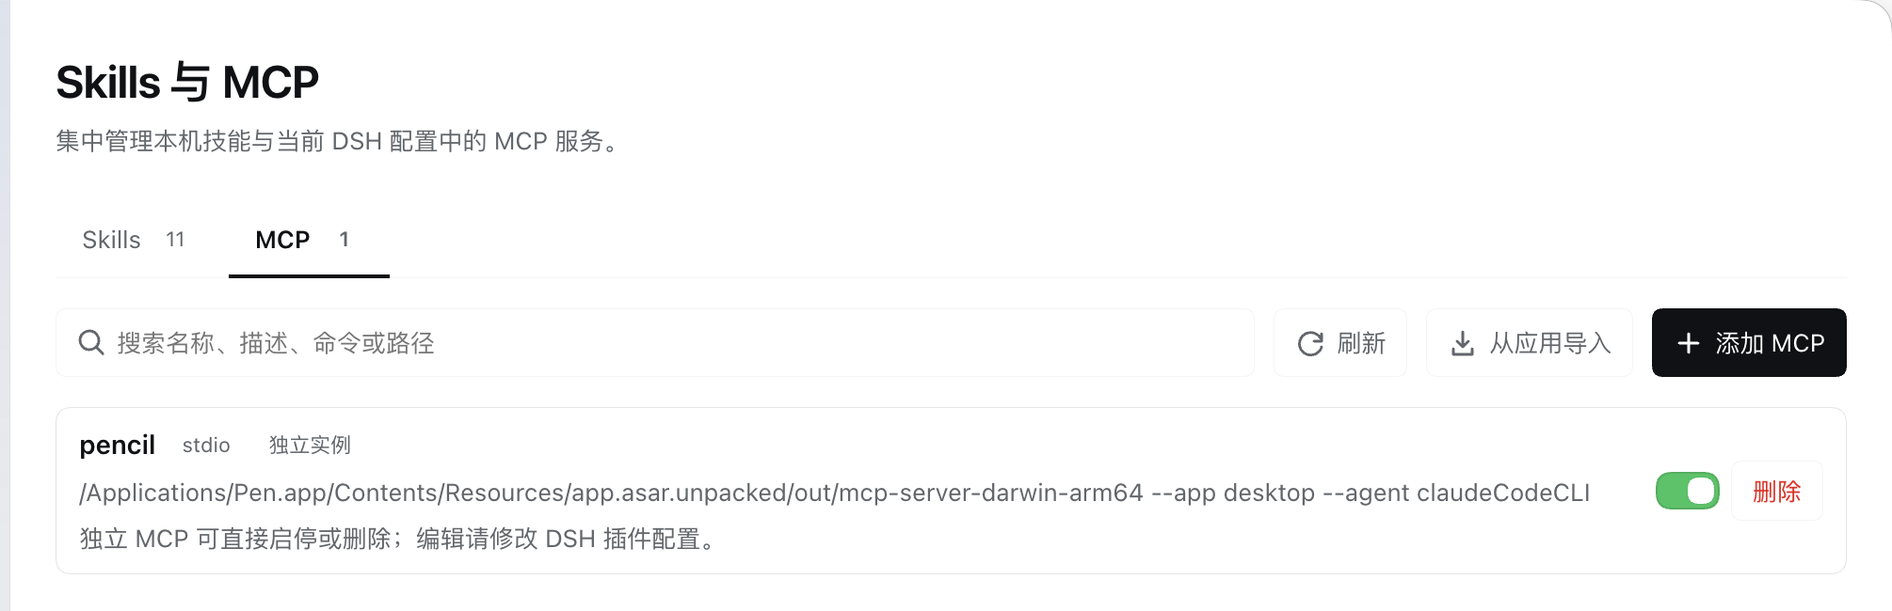
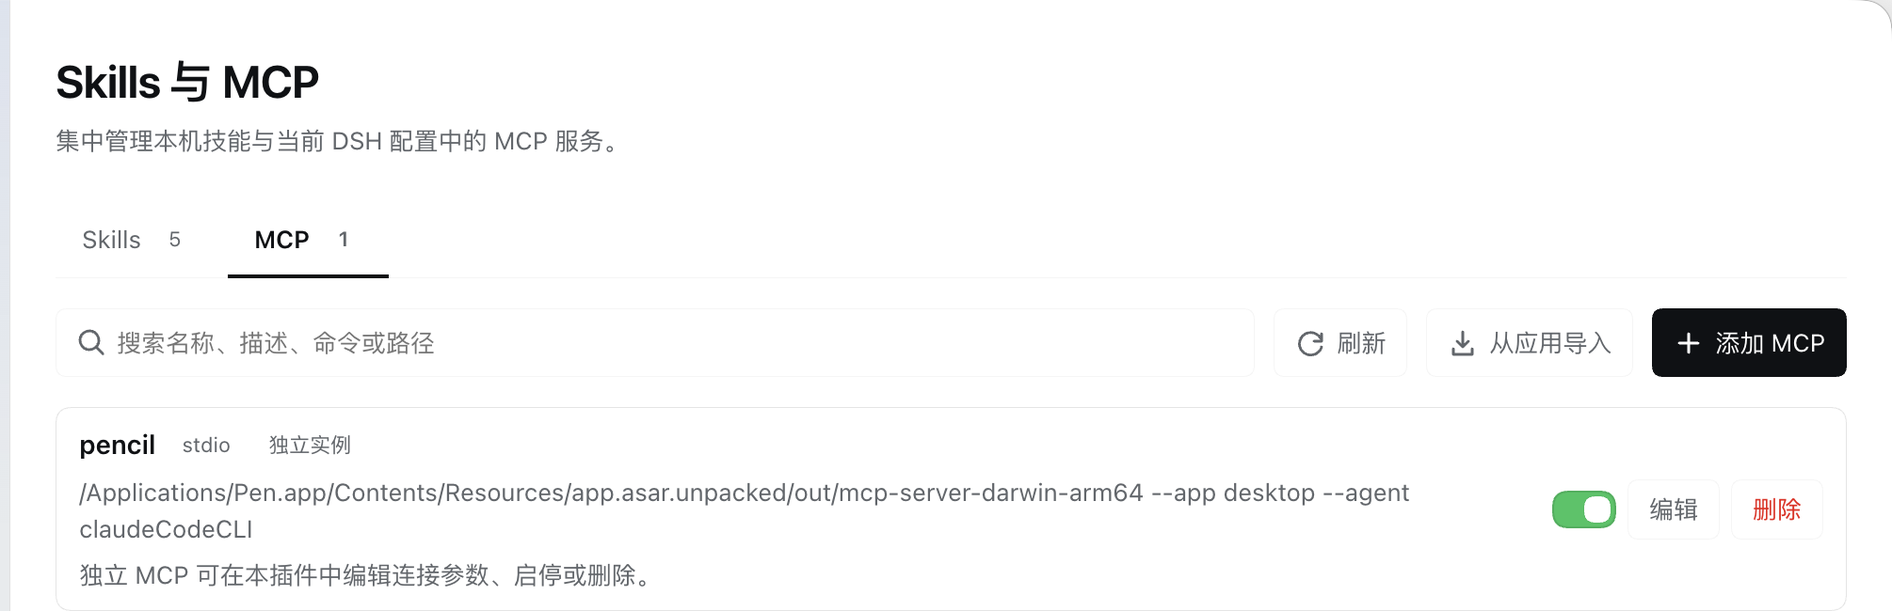
Edit standalone MCPs and support SSE JSON forms

Changed region(s): [[0.0308, 0.8615, 0.3701, 0.9538], [0.7403, 0.7692, 0.9562, 0.8615], [0.1234, 0.3692, 0.1851, 0.4]]

diff --git a/lib/client.js b/lib/client.js
@@ -7,6 +7,7 @@ window.__ModuleLoader__.load({
     const BASE = '/__dsh-capability-switch'
     const PANEL = 'capability-switch'
     const NS = 'capabilitySwitch'
+    const MCP_NAME = /^[A-Za-z0-9_-]{1,32}$/
     let translate = null
 
     const MESSAGES = {
@@ -17,6 +18,8 @@ window.__ModuleLoader__.load({
         user: '用户级', project: '项目只读', directory: '目录技能', file: '单文件技能', noItems: '没有匹配条目', noSkills: '尚未安装用户级技能', noMcp: '尚未配置 MCP 服务',
         agentSource: 'Agent 目录', dshSource: 'DSH 目录', standalone: '独立实例', registered: '插件注册', runtimeUnmanaged: '由独立插件实例管理', readonly: '只读',
         loading: '正在读取本机配置…', creating: '正在创建…', discardChanges: '有未保存的修改，确定关闭吗？', loadFailed: '读取配置失败', retry: '重试', save: '保存', cancel: '取消', close: '关闭', create: '创建',
+        formMode: '表单', jsonMode: 'JSON', jsonHelp: '支持 mcpServers 包装对象或单个服务器配置。', jsonOneServer: 'JSON 中只能包含一个 MCP 服务器', jsonNameFixed: '编辑时不能修改 MCP 名称，当前名称为',
+        mode: '编辑方式', standaloneEditHint: '独立实例可直接编辑连接参数；启停仍使用开关。', transportHttp: 'SSE / Streamable HTTP', transportHttpHelp: 'DSH 通过 Streamable HTTP 承载 SSE 流。',
         name: '名称', description: '描述', body: '正文', content: 'SKILL.md 内容', path: '路径', transport: '连接类型', command: '启动命令',
         args: '参数（每行一个）', cwd: '工作目录（可选）', env: '环境变量（JSON 对象）', url: '服务 URL', headers: '请求头（JSON 对象）',
         enableNow: '保存后立即启用', createSkillTitle: '新建技能', editSkillTitle: '编辑技能', editMcpTitle: '编辑 MCP', addMcpTitle: '添加 MCP',
@@ -43,7 +46,7 @@ window.__ModuleLoader__.load({
         syncTitle: '从 Agent 目录同步 Skills', syncHelp: '同步会为选中项在 DSH 目录建立指向 Agent 来源的软链接。已有不同链接或真实目录会先备份，再替换；Agent 来源目录保持不变。',
         syncAction: '确认同步', newItem: '建立链接', updateItem: '更新链接', unchangedItem: '链接正常', noChanges: '没有需要同步的变更', backupLocation: '备份目录', partialFailure: '部分条目失败',
         selectAll: '全选', clearAll: '全不选', selectedCount: '已选 {count} 项', takeoverHint: '技能接管已启用（所有模式）：仅隐藏全局 Agent 目录；DSH 用户技能和项目级技能仍会扫描加载。全局 Agent 目录仅用于同步。',
-        standaloneHint: '独立 MCP 可直接启停或删除；编辑请修改 DSH 插件配置。', registeredHint: '由其他 DSH 插件动态注册。',
+        standaloneHint: '独立 MCP 可在本插件中编辑连接参数、启停或删除。', registeredHint: '由其他 DSH 插件动态注册。',
       },
       en: {
         nav: 'Capabilities', title: 'Skills & MCP', subtitle: 'Manage local skills and MCP servers in the active DSH profile.',
@@ -52,6 +55,8 @@ window.__ModuleLoader__.load({
         user: 'User', project: 'Project read-only', directory: 'Directory', file: 'Single file', noItems: 'No matching entries', noSkills: 'No user skills installed', noMcp: 'No MCP servers configured',
         agentSource: 'Agent directory', dshSource: 'DSH directory', standalone: 'Standalone', registered: 'Plugin registered', runtimeUnmanaged: 'Managed by a standalone plugin instance', readonly: 'Read-only',
         loading: 'Reading local configuration…', creating: 'Creating…', discardChanges: 'Discard unsaved changes and close?', loadFailed: 'Could not read configuration', retry: 'Retry', save: 'Save', cancel: 'Cancel', close: 'Close', create: 'Create',
+        formMode: 'Form', jsonMode: 'JSON', jsonHelp: 'Accepts an mcpServers wrapper or a single server object.', jsonOneServer: 'JSON must contain exactly one MCP server', jsonNameFixed: 'The MCP name cannot change while editing; current name:',
+        mode: 'Editor', standaloneEditHint: 'Standalone connection settings are editable here; use the toggle for enablement.', transportHttp: 'SSE / Streamable HTTP', transportHttpHelp: 'DSH carries SSE streams over Streamable HTTP.',
         name: 'Name', description: 'Description', body: 'Body', content: 'SKILL.md content', path: 'Path', transport: 'Transport', command: 'Command',
         args: 'Arguments (one per line)', cwd: 'Working directory (optional)', env: 'Environment (JSON object)', url: 'Server URL', headers: 'Headers (JSON object)',
         enableNow: 'Enable after saving', createSkillTitle: 'New skill', editSkillTitle: 'Edit skill', editMcpTitle: 'Edit MCP', addMcpTitle: 'Add MCP',
@@ -78,7 +83,7 @@ window.__ModuleLoader__.load({
         syncTitle: 'Sync Skills from Agent directory', syncHelp: 'Sync creates DSH symlinks to selected Agent sources. Existing different links or real directories are backed up before replacement; Agent sources are never changed.',
         syncAction: 'Confirm sync', newItem: 'Create link', updateItem: 'Update link', unchangedItem: 'Linked', noChanges: 'No changes to synchronize', backupLocation: 'Backup directory', partialFailure: 'Some items failed',
         selectAll: 'Select all', clearAll: 'Clear all', selectedCount: '{count} selected', takeoverHint: 'Skill takeover is active in every mode: only the global Agent directory is hidden; DSH user and project skills still load. The global Agent directory is used only for sync.',
-        standaloneHint: 'Standalone MCP can be enabled, disabled, or deleted here; edit its plugin configuration in DSH.', registeredHint: 'Dynamically registered by another DSH plugin.',
+        standaloneHint: 'Standalone MCP connection settings can be edited, enabled, disabled, or deleted here.', registeredHint: 'Dynamically registered by another DSH plugin.',
       },
     }
 
@@ -152,8 +157,10 @@ window.__ModuleLoader__.load({
       '.dsh-caps-workspace{display:flex;flex-direction:column;gap:11px;padding:12px;border:.5px solid var(--dsw-alias-border-l1);border-radius:9px;background:var(--dsw-alias-bg-layer-2);}',
       '.dsh-caps-workspace-head{display:flex;align-items:flex-start;gap:9px;}.dsh-caps-workspace-icon{width:28px;height:28px;flex:0 0 28px;display:grid;place-items:center;border:.5px solid var(--dsw-alias-border-l1);border-radius:7px;background:var(--dsw-alias-bg-layer-1);color:var(--dsw-alias-label-secondary);}',
       '.dsh-caps-workspace-copy{display:flex;flex-direction:column;gap:2px;min-width:0;}.dsh-caps-workspace-fields{display:grid;grid-template-columns:1fr 1fr;gap:10px;}',
+      '.dsh-caps-json{min-height:240px;}',
+      '.dsh-caps-mcp-grid{display:grid;grid-template-columns:1fr 1fr;gap:10px;align-items:start;}.dsh-caps-mcp-small{min-height:72px;}',
       '.dsh-caps-modal-actions{display:flex;justify-content:flex-end;gap:8px;margin-top:22px;}.dsh-caps-spinner{color:var(--dsw-alias-label-secondary);padding:30px 0;text-align:center;}',
-      '@media(max-width:700px){.dsh-caps{--caps-pad:16px}.dsh-caps-shell{padding-top:20px}.dsh-caps-header{flex-direction:column}.dsh-caps-row{grid-template-columns:1fr}.dsh-caps-row-actions{justify-content:flex-start}.dsh-caps-toolbar{flex-wrap:wrap}.dsh-caps-search{flex-basis:100%}.dsh-caps-modal{padding:18px}.dsh-caps-workspace-fields{grid-template-columns:1fr}}',
+      '@media(max-width:700px){.dsh-caps{--caps-pad:16px}.dsh-caps-shell{padding-top:20px}.dsh-caps-header{flex-direction:column}.dsh-caps-row{grid-template-columns:1fr}.dsh-caps-row-actions{justify-content:flex-start}.dsh-caps-toolbar{flex-wrap:wrap}.dsh-caps-search{flex-basis:100%}.dsh-caps-modal{padding:18px}.dsh-caps-workspace-fields,.dsh-caps-mcp-grid{grid-template-columns:1fr}}',
     ].join('\n')
 
     function Icon({ name, size = 16 }) {
@@ -289,8 +296,45 @@ window.__ModuleLoader__.load({
         h('div', { className: 'dsh-caps-modal-actions' }, h('button', { type: 'button', className: 'dsh-caps-btn', onClick: () => onCancel() }, t('cancel')), h('button', { className: 'dsh-caps-btn dsh-caps-primary', disabled: busy }, t('save'))))
     }
 
+    function mcpJsonText({ name, transport, command, args, cwd, env, url, headers, enabled }) {
+      const server = transport === 'stdio'
+        ? { transport, command, args, env, cwd }
+        : { transport, url, headers }
+      if (transport !== 'stdio') server.transport = transport
+      const body = { ...server, enabled }
+      return JSON.stringify({ mcpServers: { [name || 'my-mcp']: body } }, null, 2)
+    }
+
+    function parseMcpJson(text, fallbackName, editingName) {
+      const value = JSON.parse(text)
+      if (value === null || typeof value !== 'object' || Array.isArray(value)) throw new Error(t('invalidJson'))
+      let name = editingName || fallbackName
+      let server
+      if (value.mcpServers !== undefined) {
+        if (value.mcpServers === null || typeof value.mcpServers !== 'object' || Array.isArray(value.mcpServers)) throw new Error(t('invalidJson'))
+        const entries = Object.entries(value.mcpServers)
+        if (entries.length !== 1) throw new Error(t('jsonOneServer'))
+        name = editingName || fallbackName || entries[0][0]
+        server = entries[0][1]
+      } else if (!value.transport && !value.type && !value.command && !value.url && Object.values(value).every(entry => entry && typeof entry === 'object' && !Array.isArray(entry))) {
+        const entries = Object.entries(value)
+        if (entries.length !== 1) throw new Error(t('jsonOneServer'))
+        name = editingName || fallbackName || entries[0][0]
+        server = entries[0][1]
+      } else {
+        server = value
+      }
+      if (editingName && name !== editingName) throw new Error(t('jsonNameFixed') + ': ' + editingName)
+      if (!name || !MCP_NAME.test(name)) throw new Error(t('mcpNameHelp'))
+      if (server === null || typeof server !== 'object' || Array.isArray(server)) throw new Error(t('invalidJson'))
+      const transport = server.transport || server.type || (server.url ? 'streamable-http' : 'stdio')
+      if (transport === 'http' || transport === 'sse') return { name, server: { ...server, transport: 'streamable-http' } }
+      return { name, server: { ...server, transport } }
+    }
+
     function McpForm({ item, onCancel, onSave, onDirtyChange, busy }) {
       const editing = Boolean(item)
+      const standalone = item?.source === 'standalone'
       const [name, setName] = useState(item?.name || '')
       const [transport, setTransport] = useState(item?.transport || 'stdio')
       const [command, setCommand] = useState(item?.command || '')
@@ -300,28 +344,72 @@ window.__ModuleLoader__.load({
       const [url, setUrl] = useState(item?.url || '')
       const [headers, setHeaders] = useState(JSON.stringify(item?.headers || {}, null, 2))
       const [enabled, setEnabled] = useState(item?.enabled !== false)
+      const [mode, setMode] = useState('form')
+      const [jsonText, setJsonText] = useState(() => mcpJsonText({ name: item?.name || '', transport: item?.transport || 'stdio', command: item?.command || '', args: item?.args || [], cwd: item?.cwd || '', env: item?.env || {}, url: item?.url || '', headers: item?.headers || {}, enabled: item?.enabled !== false }))
       const [formError, setFormError] = useState('')
       const original = useMemo(() => JSON.stringify({ name: item?.name || '', transport: item?.transport || 'stdio', command: item?.command || '', args: (item?.args || []).join('\n'), cwd: item?.cwd || '', env: JSON.stringify(item?.env || {}, null, 2), url: item?.url || '', headers: JSON.stringify(item?.headers || {}, null, 2), enabled: item?.enabled !== false }), [])
-      useEffect(() => onDirtyChange(JSON.stringify({ name, transport, command, args, cwd, env, url, headers, enabled }) !== original), [name, transport, command, args, cwd, env, url, headers, enabled, original, onDirtyChange])
+      const originalJson = useMemo(() => mcpJsonText({ name: item?.name || '', transport: item?.transport || 'stdio', command: item?.command || '', args: item?.args || [], cwd: item?.cwd || '', env: item?.env || {}, url: item?.url || '', headers: item?.headers || {}, enabled: item?.enabled !== false }), [])
+      useEffect(() => onDirtyChange(mode === 'json' ? jsonText !== originalJson : JSON.stringify({ name, transport, command, args, cwd, env, url, headers, enabled }) !== original), [name, transport, command, args, cwd, env, url, headers, enabled, mode, jsonText, original, originalJson, onDirtyChange])
+      const currentJson = () => mcpJsonText({ name, transport, command, args: args.split(/\r?\n/).map(x => x.trim()).filter(Boolean), cwd, env: (() => { try { return JSON.parse(env || '{}') } catch { return {} } })(), url, headers: (() => { try { return JSON.parse(headers || '{}') } catch { return {} } })(), enabled })
+      const applyServer = server => {
+        const requested = server.transport || server.type || (server.url ? 'streamable-http' : 'stdio')
+        const nextTransport = requested === 'http' || requested === 'sse' ? 'streamable-http' : requested
+        setTransport(nextTransport)
+        setCommand(String(server.command || ''))
+        setArgs(Array.isArray(server.args) ? server.args.join('\n') : '')
+        setCwd(String(server.cwd || ''))
+        setEnv(JSON.stringify(server.env || {}, null, 2))
+        setUrl(String(server.url || ''))
+        setHeaders(JSON.stringify(server.headers || {}, null, 2))
+        setEnabled(server.enabled !== false)
+      }
+      const switchMode = next => {
+        setFormError('')
+        if (next === 'json') { setJsonText(currentJson()); setMode('json'); return }
+        try {
+          const parsed = parseMcpJson(jsonText, name.trim(), editing ? item?.name : undefined)
+          applyServer(parsed.server)
+          if (!name.trim()) setName(parsed.name)
+          setMode('form')
+        } catch (error) { setFormError(t('invalidJson') + ': ' + error.message) }
+      }
       const submit = async event => {
         event.preventDefault(); setFormError('')
-        let envObject, headerObject
-        try { envObject = JSON.parse(env || '{}'); headerObject = JSON.parse(headers || '{}') } catch (error) { setFormError(t('invalidJson') + ': ' + error.message); return }
-        const payload = { name, originalName: item?.name, transport, command, args: args.split(/\r?\n/).map(x => x.trim()).filter(Boolean), cwd, env: envObject, url, headers: headerObject, enabled }
+        let payload
+        if (mode === 'json') {
+          try {
+            const parsed = parseMcpJson(jsonText, name.trim(), editing ? item?.name : undefined)
+            const server = parsed.server
+            payload = { name: parsed.name, originalName: item?.name, transport: server.transport, command: String(server.command || ''), args: Array.isArray(server.args) ? server.args.map(String) : [], cwd: String(server.cwd || ''), env: server.env || {}, url: String(server.url || ''), headers: server.headers || {}, enabled: server.enabled !== false }
+          } catch (error) { setFormError(t('invalidJson') + ': ' + error.message); return }
+        } else {
+          let envObject, headerObject
+          try { envObject = JSON.parse(env || '{}'); headerObject = JSON.parse(headers || '{}') } catch (error) { setFormError(t('invalidJson') + ': ' + error.message); return }
+          payload = { name, originalName: item?.name, transport, command, args: args.split(/\r?\n/).map(x => x.trim()).filter(Boolean), cwd, env: envObject, url, headers: headerObject, enabled }
+        }
         if (await onSave(payload)) onCancel(true)
       }
       return h('form', { className: 'dsh-caps-form', onSubmit: submit },
-        h(Field, { label: t('name'), help: t('mcpNameHelp') }, h('input', { className: 'dsh-caps-input', value: name, onChange: e => setName(e.target.value), disabled: editing, autoFocus: !editing, required: true })),
-        h(Field, { label: t('transport') }, h('select', { className: 'dsh-caps-select', value: transport, onChange: e => setTransport(e.target.value) }, h('option', { value: 'stdio' }, 'stdio'), h('option', { value: 'streamable-http' }, 'Streamable HTTP'))),
-        transport === 'stdio' ? h(React.Fragment, null,
-          h(Field, { label: t('command') }, h('input', { className: 'dsh-caps-input', value: command, onChange: e => setCommand(e.target.value), placeholder: 'npx', required: true })),
-          h(Field, { label: t('args') }, h('textarea', { className: 'dsh-caps-textarea', value: args, onChange: e => setArgs(e.target.value), placeholder: '-y\n@modelcontextprotocol/server-filesystem' })),
-          h(Field, { label: t('cwd') }, h('input', { className: 'dsh-caps-input', value: cwd, onChange: e => setCwd(e.target.value) })),
-          h(Field, { label: t('env') }, h('textarea', { className: 'dsh-caps-textarea', value: env, onChange: e => setEnv(e.target.value), spellCheck: false })))
+        h(Field, { label: t('mode') }, h('div', { className: 'dsh-caps-segment', role: 'group', 'aria-label': t('mode') },
+          h('button', { type: 'button', 'aria-pressed': mode === 'form', onClick: () => switchMode('form') }, t('formMode')),
+          h('button', { type: 'button', 'aria-pressed': mode === 'json', onClick: () => switchMode('json') }, t('jsonMode')))),
+        h(Field, { label: t('name'), help: t('mcpNameHelp') }, h('input', { className: 'dsh-caps-input', value: name, onChange: e => setName(e.target.value), disabled: editing, autoFocus: !editing, required: mode === 'form' })),
+        standalone ? h('div', { className: 'dsh-caps-help' }, t('standaloneEditHint')) : null,
+        mode === 'json' ? h(React.Fragment, null,
+          h(Field, { label: t('jsonMode'), help: t('jsonHelp') }, h('textarea', { className: 'dsh-caps-textarea dsh-caps-json', value: jsonText, onChange: e => setJsonText(e.target.value), spellCheck: false })))
           : h(React.Fragment, null,
-            h(Field, { label: t('url') }, h('input', { className: 'dsh-caps-input', type: 'url', value: url, onChange: e => setUrl(e.target.value), placeholder: 'https://example.com/mcp', required: true })),
-            h(Field, { label: t('headers') }, h('textarea', { className: 'dsh-caps-textarea', value: headers, onChange: e => setHeaders(e.target.value), spellCheck: false }))),
-        h('label', { className: 'dsh-caps-check' }, h('input', { type: 'checkbox', checked: enabled, onChange: e => setEnabled(e.target.checked) }), t('enableNow')),
+            h(Field, { label: t('transport'), help: transport === 'streamable-http' ? t('transportHttpHelp') : null }, h('select', { className: 'dsh-caps-select', value: transport, onChange: e => setTransport(e.target.value) }, h('option', { value: 'stdio' }, 'stdio'), h('option', { value: 'streamable-http' }, t('transportHttp'))),
+            transport === 'stdio' ? h(React.Fragment, null,
+              h('div', { className: 'dsh-caps-mcp-grid' },
+                h(Field, { label: t('command') }, h('input', { className: 'dsh-caps-input', value: command, onChange: e => setCommand(e.target.value), placeholder: 'npx', required: true })),
+                h(Field, { label: t('cwd') }, h('input', { className: 'dsh-caps-input', value: cwd, onChange: e => setCwd(e.target.value) }))),
+              h('div', { className: 'dsh-caps-mcp-grid' },
+                h(Field, { label: t('args') }, h('textarea', { className: 'dsh-caps-textarea dsh-caps-mcp-small', value: args, onChange: e => setArgs(e.target.value), placeholder: '-y\n@modelcontextprotocol/server-filesystem' })),
+                h(Field, { label: t('env') }, h('textarea', { className: 'dsh-caps-textarea dsh-caps-mcp-small', value: env, onChange: e => setEnv(e.target.value), spellCheck: false }))))
+              : h('div', { className: 'dsh-caps-mcp-grid' },
+                h(Field, { label: t('url') }, h('input', { className: 'dsh-caps-input', type: 'url', value: url, onChange: e => setUrl(e.target.value), placeholder: 'https://example.com/mcp', required: true })),
+                h(Field, { label: t('headers') }, h('textarea', { className: 'dsh-caps-textarea dsh-caps-mcp-small', value: headers, onChange: e => setHeaders(e.target.value), spellCheck: false })))),
+            standalone ? null : h('label', { className: 'dsh-caps-check' }, h('input', { type: 'checkbox', checked: enabled, onChange: e => setEnabled(e.target.checked) }), t('enableNow'))),
         formError ? h('div', { className: 'dsh-caps-notice dsh-caps-error', role: 'alert' }, formError) : null,
         h('div', { className: 'dsh-caps-modal-actions' }, h('button', { type: 'button', className: 'dsh-caps-btn', onClick: () => onCancel() }, t('cancel')), h('button', { className: 'dsh-caps-btn dsh-caps-primary', disabled: busy }, t('save'))))
     }
@@ -534,7 +622,7 @@ window.__ModuleLoader__.load({
               return ''
             }, false) }, t('test')),
             standalone ? null : h('button', { className: 'dsh-caps-btn', disabled: Boolean(busy), onClick: () => perform('restart:' + item.name, () => api('/mcp/restart', { body: { name: item.name } }), t('restarted'), false) }, t('restart')),
-            standalone ? null : h('button', { className: 'dsh-caps-btn', disabled: !item.writable || Boolean(busy), onClick: () => openModal({ kind: 'mcp', item }) }, t('edit')),
+            h('button', { className: 'dsh-caps-btn', disabled: !item.writable || Boolean(busy), onClick: () => openModal({ kind: 'mcp', item }) }, t('edit')),
             h('button', { className: 'dsh-caps-btn dsh-caps-danger', disabled: item.canDelete !== true || Boolean(busy), onClick: () => askDelete('mcp', item) }, t('remove')))))
       }
 

diff --git a/lib/mcp.js b/lib/mcp.js
@@ -49,7 +49,7 @@ async function standaloneMcp(ctx) {
       args: Array.isArray(config.args) ? config.args.map(String) : [],
       env: config.env || {}, cwd: String(config.cwd || ''), url: String(config.url || ''),
       headers: config.headers || {}, name: String(config.serverName || entry.options.id),
-      enabled, status: { state: enabled ? 'unknown' : 'disabled' }, source: 'standalone', writable: false,
+      enabled, status: { state: enabled ? 'unknown' : 'disabled' }, source: 'standalone', writable: true,
       canToggle: pluginRow !== undefined && pluginRow.readOnlyReason === undefined,
       canDelete: true, ...(pluginRow?.entryId === undefined ? {} : { pluginEntryId: pluginRow.entryId }), entryId: entry.options.id,
     })
@@ -100,7 +100,8 @@ function cleanMap(value, label) {
 function normalizeServer(input, previous = {}) {
   const name = String(input.name || '').trim()
   if (!NAME.test(name)) throw new Error('MCP 名称需为 1–32 位字母、数字、连字符或下划线')
-  const transport = input.transport
+  const requestedTransport = input.transport
+  const transport = requestedTransport === 'sse' ? 'streamable-http' : requestedTransport
   if (transport !== 'stdio' && transport !== 'streamable-http') throw new Error('不支持的 MCP 传输类型')
   const shared = { ...previous, name: undefined, transport, enabled: input.enabled !== false }
   delete shared.name
@@ -117,9 +118,29 @@ function normalizeServer(input, previous = {}) {
 export async function saveMcp(ctx, input) {
   const service = manager(ctx)
   const name = String(input.name || '').trim()
-  const previous = service.config.servers.get()[name]
+  const configured = service.config.servers.get()
+  const previous = configured[name]
   if (input.originalName && input.originalName !== name) throw new Error('编辑时不能修改 MCP 名称')
   if (!input.originalName && previous) throw new Error('同名 MCP 已存在')
+  const standaloneEntriesList = await standaloneEntries(ctx)
+  const standaloneName = candidate => String(candidate.entry.options.config?.serverName || candidate.entry.options.id)
+  const standalone = input.originalName
+    ? standaloneEntriesList.find(candidate => standaloneName(candidate) === name)
+    : undefined
+  if (!input.originalName && standaloneEntriesList.some(candidate => standaloneName(candidate) === name)) {
+    throw new Error('同名 MCP 已存在')
+  }
+  if (standalone) {
+    const server = normalizeServer(input, standalone.entry.options.config || {})
+    const { enabled, ...config } = server
+    await editor(ctx).edit(standalone.entry, current => ({
+      ...(current || {}),
+      ...config,
+      serverName: name,
+    }))
+    return { name, enabled: enabled !== false, standalone: true }
+  }
+  if (input.originalName && previous === undefined) throw new Error('MCP 不存在或已被移除')
   const server = normalizeServer(input, previous || {})
   await edit(ctx, current => { current.servers[name] = server; return current })
   return { name, enabled: server.enabled }

diff --git a/lib/imports.js b/lib/imports.js
@@ -15,7 +15,7 @@ function strings(value) {
 function normalizeStandard(name, value, source) {
   if (!object(value)) throw new Error('配置项必须是对象')
   const kind = value.transport || value.type || (value.url ? 'streamable-http' : 'stdio')
-  if (['http', 'streamable-http'].includes(kind)) {
+  if (['http', 'streamable-http', 'sse'].includes(kind)) {
     if (!String(value.url || '').trim()) throw new Error('HTTP MCP 缺少 URL')
     return {
       name, transport: 'streamable-http', url: String(value.url || ''), headers: strings(value.headers),

diff --git a/README.md b/README.md
@@ -62,7 +62,10 @@ $WORKSPACE/.agents/skills
 
 - 新增、编辑、启停、删除、连接测试和重新连接。
 - 管理 MCP Manager 中的配置，也能显示直接挂载的独立 `@deepseek-ai/dsh-mcp-client` 实例。
-- 独立实例可直接启停和删除。删除前会备份 profile 补丁，再移除对应配置行。
+- 独立实例可直接编辑连接参数、启停和删除。删除前会备份 profile 补丁，再移除对应配置行。
+- 连接类型支持 `stdio` 和 `SSE / Streamable HTTP`。SSE 配置统一由 DSH 的 Streamable HTTP 传输承载。
+- 编辑支持表单和 JSON 两种方式。JSON 接受 `mcpServers` 包装对象或单个服务器配置。
+- JSON 中的 `type: "sse"` 或 `transport: "sse"` 会映射为 DSH 的 `streamable-http`。
 - 从 Claude Code、Codex、Gemini CLI、OpenCode 和 Cursor 导入用户级 MCP 配置。
 - 导入前显示预览和来源。默认不勾选，默认导入为停用。
 - 预览后来源变化会拒绝导入，避免执行未经确认的命令。
@@ -84,12 +87,12 @@ npm install --ignore-scripts
 
 在 DSH 中打开“插件”，选择“添加插件”，然后选择这个目录。安装完成后，左侧边栏会出现 `技能与MCP`。
 
-也可以下载 GitHub Release 中的 `dsh-capability-switch-1.3.2.tgz`，解压后按上面的目录方式安装。
+也可以下载 GitHub Release 中的 `dsh-capability-switch-1.4.0.tgz`，解压后按上面的目录方式安装。
 
 从 GitHub 固定版本安装：
 
 ```bash
-dsh plugin --profile desktop add "git+https://github.com/lock-down/dsh-capability-switch.git#v1.3.2"
+dsh plugin --profile desktop add "git+https://github.com/lock-down/dsh-capability-switch.git#v1.4.0"
 ```
 
 ## 使用

diff --git a/.github/release-notes-1.4.0.md b/.github/release-notes-1.4.0.md
@@ -1,0 +1,40 @@
+# dsh-capability-switch 1.4.0
+
+MCP 可编辑，并支持 SSE 与 JSON。
+
+## 新增
+
+- 独立 `@deepseek-ai/dsh-mcp-client` 实例可以直接编辑连接参数。
+- 编辑弹窗新增“表单 / JSON”切换。
+- JSON 支持 `mcpServers` 包装对象和单个服务器配置。
+- 表单和 JSON 都接受 SSE 配置，并映射到 DSH 的 `streamable-http` 传输。
+- 外部 MCP 导入识别 `sse` 类型。
+- MCP 列表中的独立实例显示编辑按钮。
+
+## JSON 示例
+
+```json
+{
+  "mcpServers": {
+    "example": {
+      "type": "sse",
+      "url": "https://example.com/sse",
+      "headers": {
+        "Authorization": "Bearer token"
+      }
+    }
+  }
+}
+```
+
+## 安装
+
+```bash
+dsh plugin --profile desktop add "git+https://github.com/lock-down/dsh-capability-switch.git#v1.4.0"
+```
+
+也可以下载 Release 中的 `dsh-capability-switch-1.4.0.tgz`，解压后在 DSH 的“插件”页面选择“添加插件”。
+
+## 市场来源
+
+本版本可用于 Open Plugin Market 的固定 GitHub 提交收录。提交时使用标签 `v1.4.0` 指向的完整提交 SHA。

diff --git a/CHANGELOG.md b/CHANGELOG.md
@@ -1,5 +1,16 @@
 # 更新记录
 
+## 1.4.0
+
+MCP 可编辑，并支持 SSE 与 JSON。
+
+- 独立 `@deepseek-ai/dsh-mcp-client` 实例可以直接编辑连接参数。
+- 编辑弹窗新增“表单 / JSON”切换。
+- JSON 支持 `mcpServers` 包装对象和单个服务器配置。
+- 表单和 JSON 都接受 SSE 配置，并映射到 DSH 的 `streamable-http` 传输。
+- 外部 MCP 导入识别 `sse` 类型。
+- MCP 列表中的独立实例显示编辑按钮。
+
 ## 1.3.2
 
 新建项目级技能时选择工作区。
